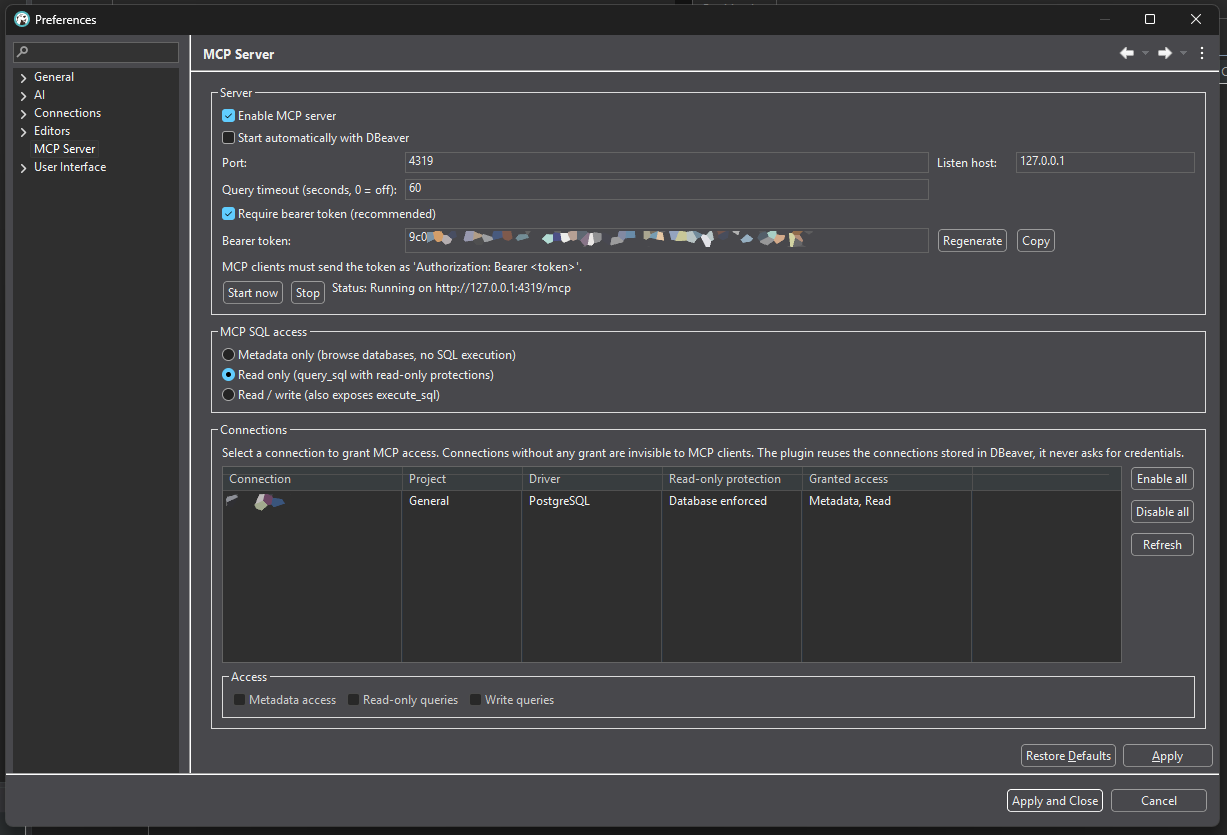
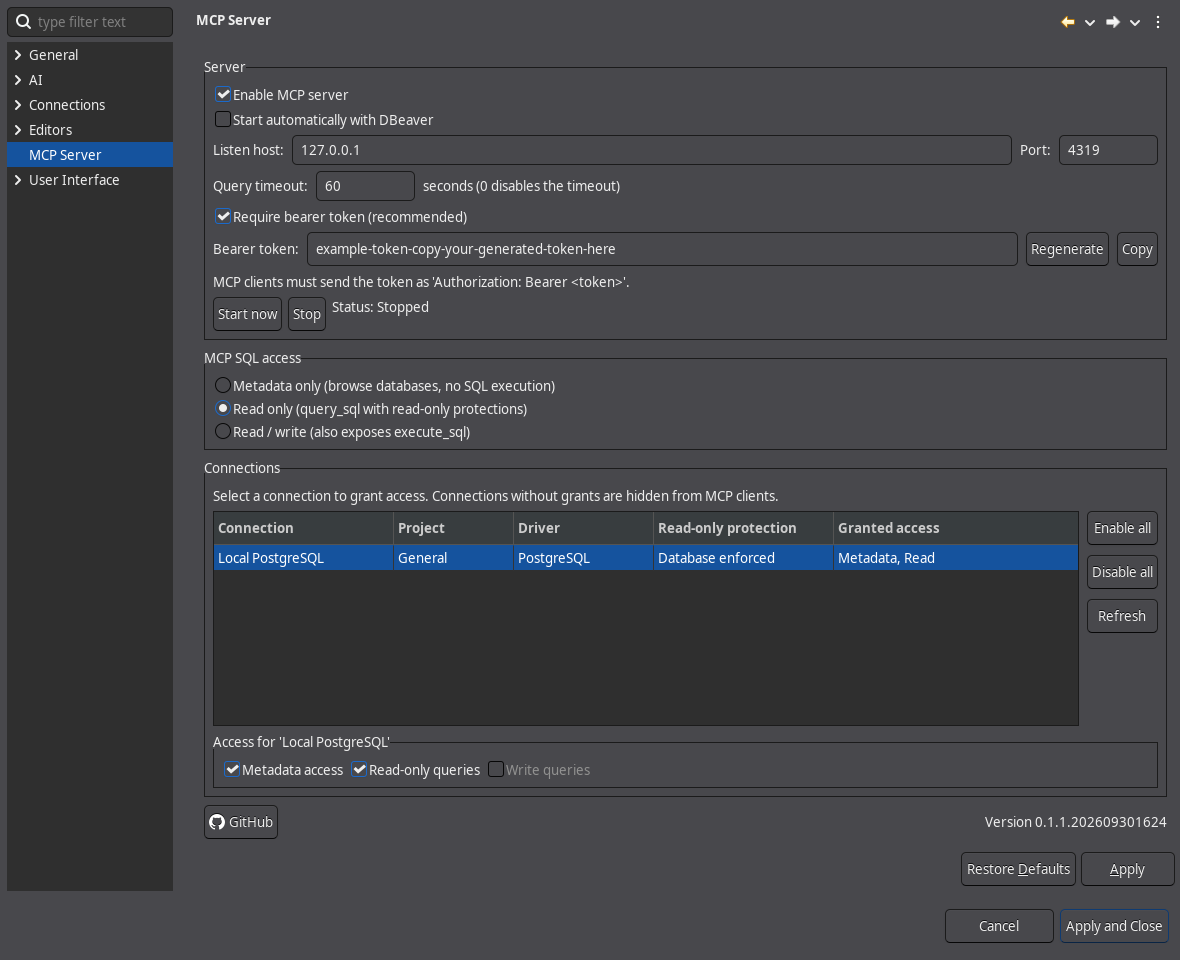
Improve settings UI and add GitHub link and plugin version (#2)

diff --git a/plugins/dev.astronauta.dbeaverMCP/src/dev/astronauta/dbeaverMCP/ui/McpPreferencePage.java b/plugins/dev.astronauta.dbeaverMCP/src/dev/astronauta/dbeaverMCP/ui/McpPreferencePage.java
@@ -1,14 +1,14 @@
 package dev.astronauta.dbeaverMCP.ui;
 
-
+import java.net.URI;
 import java.util.ArrayList;
 import java.util.List;
 import java.util.Set;
 
-
 import dev.astronauta.dbeaverMCP.McpPlugin;
 import dev.astronauta.dbeaverMCP.McpPreferences;
 import dev.astronauta.dbeaverMCP.McpPreferences.AccessMode;
+import dev.astronauta.dbeaverMCP.PluginInfo;
 import dev.astronauta.dbeaverMCP.ServerSettings;
 import dev.astronauta.dbeaverMCP.db.AccessPolicy;
 import dev.astronauta.dbeaverMCP.db.BridgeException;
@@ -22,16 +22,20 @@ import org.eclipse.core.runtime.jobs.Job;
 import org.eclipse.jface.layout.GridDataFactory;
 import org.eclipse.jface.layout.GridLayoutFactory;
 import org.eclipse.jface.preference.PreferencePage;
+import org.eclipse.jface.resource.ImageDescriptor;
 import org.eclipse.jface.viewers.ArrayContentProvider;
 import org.eclipse.jface.viewers.IStructuredSelection;
 import org.eclipse.jface.viewers.ITableLabelProvider;
 import org.eclipse.jface.viewers.LabelProvider;
 import org.eclipse.jface.viewers.TableViewer;
+import org.eclipse.jface.viewers.StructuredSelection;
 import org.eclipse.swt.SWT;
+import org.eclipse.swt.custom.ScrolledComposite;
 import org.eclipse.swt.dnd.Clipboard;
 import org.eclipse.swt.dnd.TextTransfer;
 import org.eclipse.swt.dnd.Transfer;
 import org.eclipse.swt.graphics.Image;
+import org.eclipse.swt.graphics.Point;
 import org.eclipse.swt.layout.GridData;
 import org.eclipse.swt.widgets.Button;
 import org.eclipse.swt.widgets.Composite;
@@ -44,6 +48,7 @@ import org.eclipse.swt.widgets.TableColumn;
 import org.eclipse.swt.widgets.Text;
 import org.eclipse.ui.IWorkbench;
 import org.eclipse.ui.IWorkbenchPreferencePage;
+import org.eclipse.ui.PlatformUI;
 import org.eclipse.ui.statushandlers.StatusManager;
 
 /**
@@ -52,6 +57,10 @@ import org.eclipse.ui.statushandlers.StatusManager;
  */
 public class McpPreferencePage extends PreferencePage implements IWorkbenchPreferencePage {
 
+    private ScrolledComposite scroller;
+    private Composite contents;
+    private Image githubIcon;
+    private Image githubLightIcon;
     private Button enabledCheck;
     private Button autoStartCheck;
     private Text portText;
@@ -88,17 +97,31 @@ public class McpPreferencePage extends PreferencePage implements IWorkbenchPrefe
     }
 
     @Override
-    protected Control createContents(Composite parent) {
-        Composite root = new Composite(parent, SWT.NONE);
-        GridLayoutFactory.fillDefaults().margins(8, 8).spacing(8, 8).applyTo(root);
+    public Point computeSize() {
+        // PreferencePage caches the assigned size; keep a stable preferred size when resizing.
+        return new Point(600, 400);
+    }
 
-        createServerGroup(root);
-        createModeGroup(root);
-        createConnectionsGroup(root);
+    @Override
+    protected Control createContents(Composite parent) {
+        scroller = new ScrolledComposite(parent, SWT.V_SCROLL);
+        scroller.setExpandHorizontal(true);
+        scroller.setExpandVertical(true);
+        scroller.setShowFocusedControl(true);
+        contents = new Composite(scroller, SWT.NONE);
+        GridLayoutFactory.fillDefaults().margins(8, 8).spacing(8, 8).applyTo(contents);
+        scroller.setContent(contents);
+        scroller.addListener(SWT.Resize, e -> updatePageLayout());
+
+        createServerGroup(contents);
+        createModeGroup(contents);
+        createConnectionsGroup(contents);
+        createFooter(contents);
 
         loadValues();
         updateStatus();
-        return root;
+        updatePageLayout();
+        return scroller;
     }
 
     private void createServerGroup(Composite root) {
@@ -115,14 +138,17 @@ public class McpPreferencePage extends PreferencePage implements IWorkbenchPrefe
         autoStartCheck.setText("Start automatically with DBeaver");
         GridDataFactory.fillDefaults().span(4, 1).applyTo(autoStartCheck);
 
-        Label portLabel = new Label(group, SWT.NONE);
-        portLabel.setText("Port:");
-        portText = new Text(group, SWT.BORDER);
-        GridDataFactory.fillDefaults().hint(80, SWT.DEFAULT).applyTo(portText);
-        Label hostLabel = new Label(group, SWT.NONE);
+        Composite address = new Composite(group, SWT.NONE);
+        GridDataFactory.fillDefaults().span(4, 1).grab(true, false).applyTo(address);
+        GridLayoutFactory.fillDefaults().numColumns(4).spacing(8, 6).applyTo(address);
+        Label hostLabel = new Label(address, SWT.NONE);
         hostLabel.setText("Listen host:");
-        hostText = new Text(group, SWT.BORDER);
+        hostText = new Text(address, SWT.BORDER | SWT.SINGLE);
         GridDataFactory.fillDefaults().grab(true, false).applyTo(hostText);
+        Label portLabel = new Label(address, SWT.NONE);
+        portLabel.setText("Port:");
+        portText = new Text(address, SWT.BORDER | SWT.SINGLE);
+        GridDataFactory.fillDefaults().hint(80, SWT.DEFAULT).applyTo(portText);
 
         hostWarning = new Label(group, SWT.WRAP);
         hostWarning.setText("Warning: listening on a non-loopback address exposes the MCP server beyond this machine.");
@@ -130,12 +156,15 @@ public class McpPreferencePage extends PreferencePage implements IWorkbenchPrefe
         GridDataFactory.fillDefaults().span(4, 1).grab(true, false).applyTo(hostWarning);
         hostText.addListener(SWT.Modify, e -> updateHostWarning());
 
-        Label timeoutLabel = new Label(group, SWT.NONE);
-        timeoutLabel.setText("Query timeout (seconds, 0 = off):");
-        timeoutText = new Text(group, SWT.BORDER);
+        Composite timeout = new Composite(group, SWT.NONE);
+        GridDataFactory.fillDefaults().span(4, 1).grab(true, false).applyTo(timeout);
+        GridLayoutFactory.fillDefaults().numColumns(3).spacing(8, 6).applyTo(timeout);
+        Label timeoutLabel = new Label(timeout, SWT.NONE);
+        timeoutLabel.setText("Query timeout:");
+        timeoutText = new Text(timeout, SWT.BORDER | SWT.SINGLE);
         GridDataFactory.fillDefaults().hint(80, SWT.DEFAULT).applyTo(timeoutText);
-        Label timeoutFiller = new Label(group, SWT.NONE);
-        GridDataFactory.fillDefaults().span(2, 1).applyTo(timeoutFiller);
+        Label timeoutHint = new Label(timeout, SWT.NONE);
+        timeoutHint.setText("seconds (0 disables the timeout)");
 
         authCheck = new Button(group, SWT.CHECK);
         authCheck.setText("Require bearer token (recommended)");
@@ -150,7 +179,7 @@ public class McpPreferencePage extends PreferencePage implements IWorkbenchPrefe
         Label tokenLabel = new Label(group, SWT.NONE);
         tokenLabel.setText("Bearer token:");
         tokenText = new Text(group, SWT.BORDER | SWT.SINGLE);
-        GridDataFactory.fillDefaults().grab(true, false).applyTo(tokenText);
+        GridDataFactory.fillDefaults().grab(true, false).hint(180, SWT.DEFAULT).applyTo(tokenText);
         regenerateButton = new Button(group, SWT.PUSH);
         regenerateButton.setText("Regenerate");
         regenerateButton.addListener(SWT.Selection, e -> tokenText.setText(ServerSettings.newToken()));
@@ -178,7 +207,7 @@ public class McpPreferencePage extends PreferencePage implements IWorkbenchPrefe
             McpServerManager.getInstance().cancelAutoStart();
             runServerAction("Stopping MCP server", () -> McpServerManager.getInstance().stop());
         });
-        statusLabel = new Label(buttons, SWT.NONE);
+        statusLabel = new Label(buttons, SWT.WRAP);
         GridDataFactory.fillDefaults().grab(true, false).applyTo(statusLabel);
     }
 
@@ -214,20 +243,20 @@ public class McpPreferencePage extends PreferencePage implements IWorkbenchPrefe
         GridLayoutFactory.fillDefaults().numColumns(2).margins(8, 8).spacing(8, 6).applyTo(group);
 
         Label info = new Label(group, SWT.WRAP);
-        info.setText("Select a connection to grant MCP access. Connections without any grant are invisible"
-            + " to MCP clients. The plugin reuses the connections stored in DBeaver, it never asks for credentials.");
+        info.setText("Select a connection to grant access. Connections without grants are hidden from MCP clients.");
         GridDataFactory.fillDefaults().span(2, 1).grab(true, false).applyTo(info);
 
-        Table table = new Table(group, SWT.BORDER | SWT.FULL_SELECTION | SWT.SINGLE | SWT.V_SCROLL);
+        Table table = new Table(group, SWT.BORDER | SWT.FULL_SELECTION | SWT.SINGLE | SWT.V_SCROLL | SWT.H_SCROLL);
         table.setHeaderVisible(true);
         table.setLinesVisible(true);
         GridDataFactory.fillDefaults().grab(true, true).hint(SWT.DEFAULT, 150).applyTo(table);
         String[] titles = {"Connection", "Project", "Driver", "Read-only protection", "Granted access"};
-        int[] widths = {180, 120, 140, 140, 170};
+        int[] widths = {180, 120, 140, 180, 170};
         for (int i = 0; i < titles.length; i++) {
             TableColumn column = new TableColumn(table, SWT.NONE);
             column.setText(titles[i]);
-            column.setWidth(widths[i]);
+            column.pack();
+            column.setWidth(Math.max(widths[i], column.getWidth()));
         }
         connectionsViewer = new TableViewer(table);
         connectionsViewer.setContentProvider(ArrayContentProvider.getInstance());
@@ -277,6 +306,65 @@ public class McpPreferencePage extends PreferencePage implements IWorkbenchPrefe
         writeCheck.addListener(SWT.Selection, e -> editGrants(() -> grants.setWrite(selected.id(), writeCheck.getSelection())));
     }
 
+    private void createFooter(Composite parent) {
+        Composite footer = new Composite(parent, SWT.NONE);
+        GridDataFactory.fillDefaults().grab(true, false).applyTo(footer);
+        GridLayoutFactory.fillDefaults().numColumns(2).spacing(8, 0).applyTo(footer);
+
+        Button github = new Button(footer, SWT.PUSH);
+        github.setText("GitHub");
+        github.setToolTipText("Open the source repository: " + PluginInfo.REPOSITORY_URL);
+        githubIcon = ImageDescriptor.createFromURL(McpPreferencePage.class.getResource("/icons/github.png")).createImage();
+        githubLightIcon = ImageDescriptor.createFromURL(McpPreferencePage.class.getResource("/icons/github-light.png")).createImage();
+        updateGithubIcon(github);
+        // Eclipse can apply or change its theme after the widgets are created.
+        github.addListener(SWT.Skin, e -> scheduleGithubIconUpdate(github));
+        scheduleGithubIconUpdate(github);
+        github.addListener(SWT.Selection, e -> openRepository());
+
+        Label version = new Label(footer, SWT.NONE);
+        version.setText("Version " + PluginInfo.version());
+        GridDataFactory.fillDefaults().grab(true, false).align(SWT.END, SWT.CENTER).applyTo(version);
+    }
+
+    private void updateGithubIcon(Button github) {
+        var foreground = github.getForeground().getRGB();
+        boolean lightIcon = foreground.red + foreground.green + foreground.blue > 3 * 128;
+        Image icon = lightIcon ? githubLightIcon : githubIcon;
+        if (github.getImage() != icon) {
+            github.setImage(icon);
+        }
+    }
+
+    private void scheduleGithubIconUpdate(Button github) {
+        github.getDisplay().asyncExec(() -> {
+            if (!github.isDisposed()) {
+                updateGithubIcon(github);
+            }
+        });
+    }
+
+    private void openRepository() {
+        try {
+            PlatformUI.getWorkbench().getBrowserSupport().getExternalBrowser()
+                .openURL(URI.create(PluginInfo.REPOSITORY_URL).toURL());
+        } catch (Exception e) {
+            McpPlugin.logError("Cannot open the source repository", e);
+            setErrorMessage("Cannot open GitHub. Repository: " + PluginInfo.REPOSITORY_URL);
+        }
+    }
+
+    @Override
+    public void dispose() {
+        if (githubIcon != null && !githubIcon.isDisposed()) {
+            githubIcon.dispose();
+        }
+        if (githubLightIcon != null && !githubLightIcon.isDisposed()) {
+            githubLightIcon.dispose();
+        }
+        super.dispose();
+    }
+
     private AccessMode selectedMode() {
         if (writeModeRadio.getSelection()) {
             return AccessMode.READ_WRITE;
@@ -308,13 +396,17 @@ public class McpPreferencePage extends PreferencePage implements IWorkbenchPrefe
         if (label.getLayoutData() instanceof GridData gridData) {
             gridData.exclude = !visible;
         }
-        Control page = getControl();
-        if (page instanceof Composite root && !root.isDisposed()) {
-            root.layout(true, true);
-            if (root.getParent() != null && !root.getParent().isDisposed()) {
-                root.getParent().layout(true, true);
-            }
+        updatePageLayout();
+    }
+
+    private void updatePageLayout() {
+        if (contents == null || contents.isDisposed()) {
+            return;
         }
+        int width = scroller.getClientArea().width;
+        int height = contents.computeSize(width > 0 ? width : 600, SWT.DEFAULT).y;
+        scroller.setMinSize(0, height);
+        contents.layout(true, true);
     }
 
     private void updateAuthState() {
@@ -351,7 +443,7 @@ public class McpPreferencePage extends PreferencePage implements IWorkbenchPrefe
 
     private void updateGrantChecks() {
         if (selected == null) {
-            grantsGroup.setText("Access");
+            grantsGroup.setText("Select a connection to edit access");
             metadataCheck.setSelection(false);
             readCheck.setSelection(false);
             writeCheck.setSelection(false);
@@ -429,6 +521,8 @@ public class McpPreferencePage extends PreferencePage implements IWorkbenchPrefe
                 }
             }
         }
+        connectionsViewer.setSelection(selected == null
+            ? StructuredSelection.EMPTY : new StructuredSelection(selected), true);
         updateGrantChecks();
     }
 

diff --git a/plugins/dev.astronauta.dbeaverMCP/src/dev/astronauta/dbeaverMCP/server/McpHttpServer.java b/plugins/dev.astronauta.dbeaverMCP/src/dev/astronauta/dbeaverMCP/server/McpHttpServer.java
@@ -6,6 +6,7 @@ import java.util.Map;
 import java.nio.charset.StandardCharsets;
 
 import dev.astronauta.dbeaverMCP.db.BridgeException;
+import dev.astronauta.dbeaverMCP.PluginInfo;
 import dev.astronauta.dbeaverMCP.server.tools.McpTool;
 import dev.astronauta.dbeaverMCP.server.tools.ToolArgs;
 import io.modelcontextprotocol.json.McpJsonMapper;
@@ -20,7 +21,6 @@ import org.eclipse.jetty.ee10.servlet.ServletContextHandler;
 import org.eclipse.jetty.ee10.servlet.ServletHolder;
 import org.eclipse.jetty.server.Server;
 import org.eclipse.jetty.server.ServerConnector;
-import org.osgi.framework.FrameworkUtil;
 import tools.jackson.databind.json.JsonMapper;
 
 import org.slf4j.Logger;
@@ -63,7 +63,7 @@ public final class McpHttpServer implements AutoCloseable {
                 .securityValidator(security::validate)
                 .build();
             var specification = McpServer.sync(transport)
-                .serverInfo(McpServerManager.SERVER_NAME, bundleVersion())
+                .serverInfo(McpServerManager.SERVER_NAME, PluginInfo.version())
                 .instructions(instructions)
                 .capabilities(McpSchema.ServerCapabilities.builder().tools(true).build())
                 .jsonMapper(mapper)
@@ -101,11 +101,6 @@ public final class McpHttpServer implements AutoCloseable {
 
     public int port() {
         return ((ServerConnector) jetty.getConnectors()[0]).getLocalPort();
-    }
-
-    private static String bundleVersion() {
-        var bundle = FrameworkUtil.getBundle(McpHttpServer.class);
-        return bundle == null ? "development" : bundle.getVersion().toString();
     }
 
     @Override

diff --git a/plugins/dev.astronauta.dbeaverMCP/src/dev/astronauta/dbeaverMCP/PluginInfo.java b/plugins/dev.astronauta.dbeaverMCP/src/dev/astronauta/dbeaverMCP/PluginInfo.java
@@ -1,0 +1,16 @@
+package dev.astronauta.dbeaverMCP;
+
+import org.osgi.framework.FrameworkUtil;
+
+/** Runtime identity shared by the preferences page and MCP handshake. */
+public final class PluginInfo {
+    public static final String REPOSITORY_URL = "https://github.com/AldrinSalazar/DBeaver-MCP-plugin";
+
+    private PluginInfo() {
+    }
+
+    public static String version() {
+        var bundle = FrameworkUtil.getBundle(PluginInfo.class);
+        return bundle == null ? "development" : bundle.getVersion().toString();
+    }
+}

diff --git a/README.md b/README.md
@@ -6,7 +6,7 @@ The plugin **reuses the connections stored in DBeaver**. It never manages creden
 
 ## Screenshot
 
-Preferences page where you enable the server, set the access mode, and grant per-connection access:
+Preferences page where you enable the server, set the access mode, and grant per-connection access. The footer shows the installed plugin version and links to this repository on GitHub.
 
 ![MCP Server preferences](screenshots/DBMCP1.png)
 

diff --git a/plugins/dev.astronauta.dbeaverMCP/icons/README.md b/plugins/dev.astronauta.dbeaverMCP/icons/README.md
@@ -1,0 +1,7 @@
+The GitHub mark is `mark-github-16.svg` from GitHub's
+[@primer/octicons 19.38.0](https://github.com/primer/octicons), distributed under
+the included MIT license.
+
+`github.svg` is the original source. The PNGs are rendered at 16 and 32 pixels
+for normal and high DPI displays. `github-light` uses a white fill for dark
+themes; the preferences page selects the variant from its foreground color.
